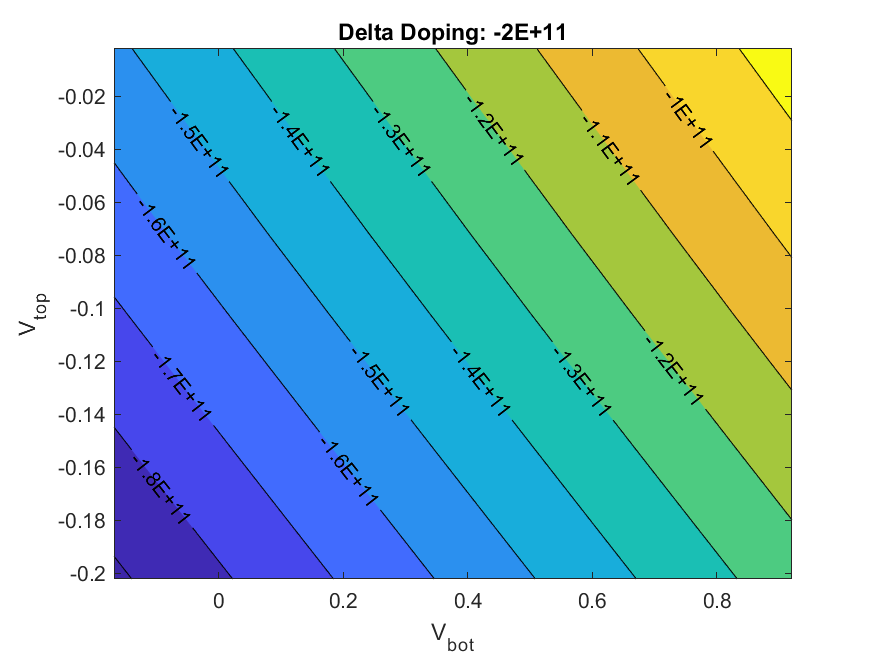
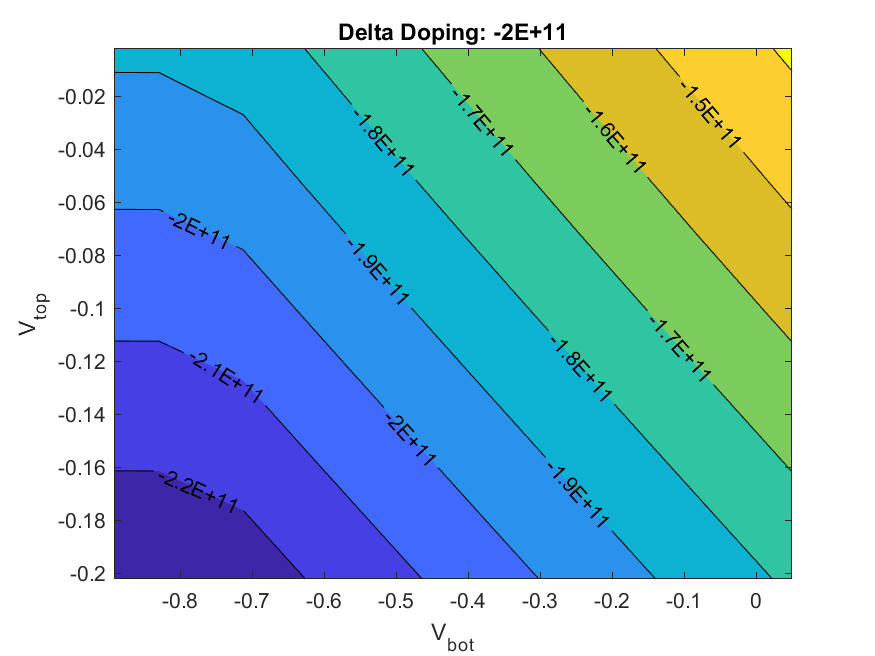
Zoomed graphs made
-2E11, -2.5E11, -3E11 created and parameters saved. Next step: Visual upgrades

diff --git a/MAIN.m b/MAIN.m
@@ -1,10 +1,30 @@
 clear all
 
 %Please manually insert desired parameters
-Pot = [0, -0.02, -0.05, -0.07, -0.1, -0.12, -0.15, -0.18, -0.2] % array in eV
-%Field = [20000, 15000, 10000, 5000, 1000, 0, -100000, -200000] % array in V/cm
-Field = [15000, 13000, 11000, 9000, 7000, 5000]
-Dopant = -2E11   % Single value in cm^-2. This dopant conc is applied to both sides
+
+
+Dopant = -2.5E11   % Single value in cm^-2. This dopant conc is applied to both sides
+Pot = [0.25, 0.20, 0.15, 0.10, 0.05, 0, -0.05, -0.10, -0.15, -0.20, -0.25] % array in eV
+Field = [15000, 13500, 11500, 10000, 8500, 6500, 5000] % array in V/cm
+
+%GLOBAL SETTINGS
+%Field = [20000, 15000, 10000, 5000, 1000, 0, -100000, -200000] 
+%Pot = [1, 0.8, 0.6, 0.4, 0.2, 0, -0.2, -0.4, -0.6, -0.8, -1]
+
+
+%2E11 ZOOM SETTINGS
+%Field = [ 7000, 5000, 2000, 0, -10000, -50000] %2E11 zoom
+%Pot = [ 7000, 5000, 3500, 2000, 0, -50000, -100000]
+
+
+%2.5E11 ZOOM SETTINGS
+%Pot = [0.25, 0.20, 0.15, 0.10, 0.05, 0, -0.05, -0.10, -0.15, -0.20, -0.25] % array in eV
+%Field = [15000, 13500, 11500, 10000, 8500, 6500, 5000] % array in V/cm
+
+
+%3E11 ZOOM SETTINGS
+%Pot = [0.6, 0.55, 0.5, 0.45, 0.4, 0.35, 0.3, 0.25, 0.2, 0.15, 0.1, 0.05, 0] % array in eV
+%Field = [20000, 18500, 16500, 15000, 13500, 11500, 10000] % array in V/cm
 
 
 %Please insert desired filenames for output graphs to be saved under
@@ -70,5 +90,6 @@ title("Delta Doping: " + D)
 saveas(gcf, filename2)
 
 
-%Overlay contour over subband occupancy
+%TO DO: Overlay contour over subband occupancy
+%Fix x and y axis of all plots to easily overlap each other
 %Look into "Hold on" function
